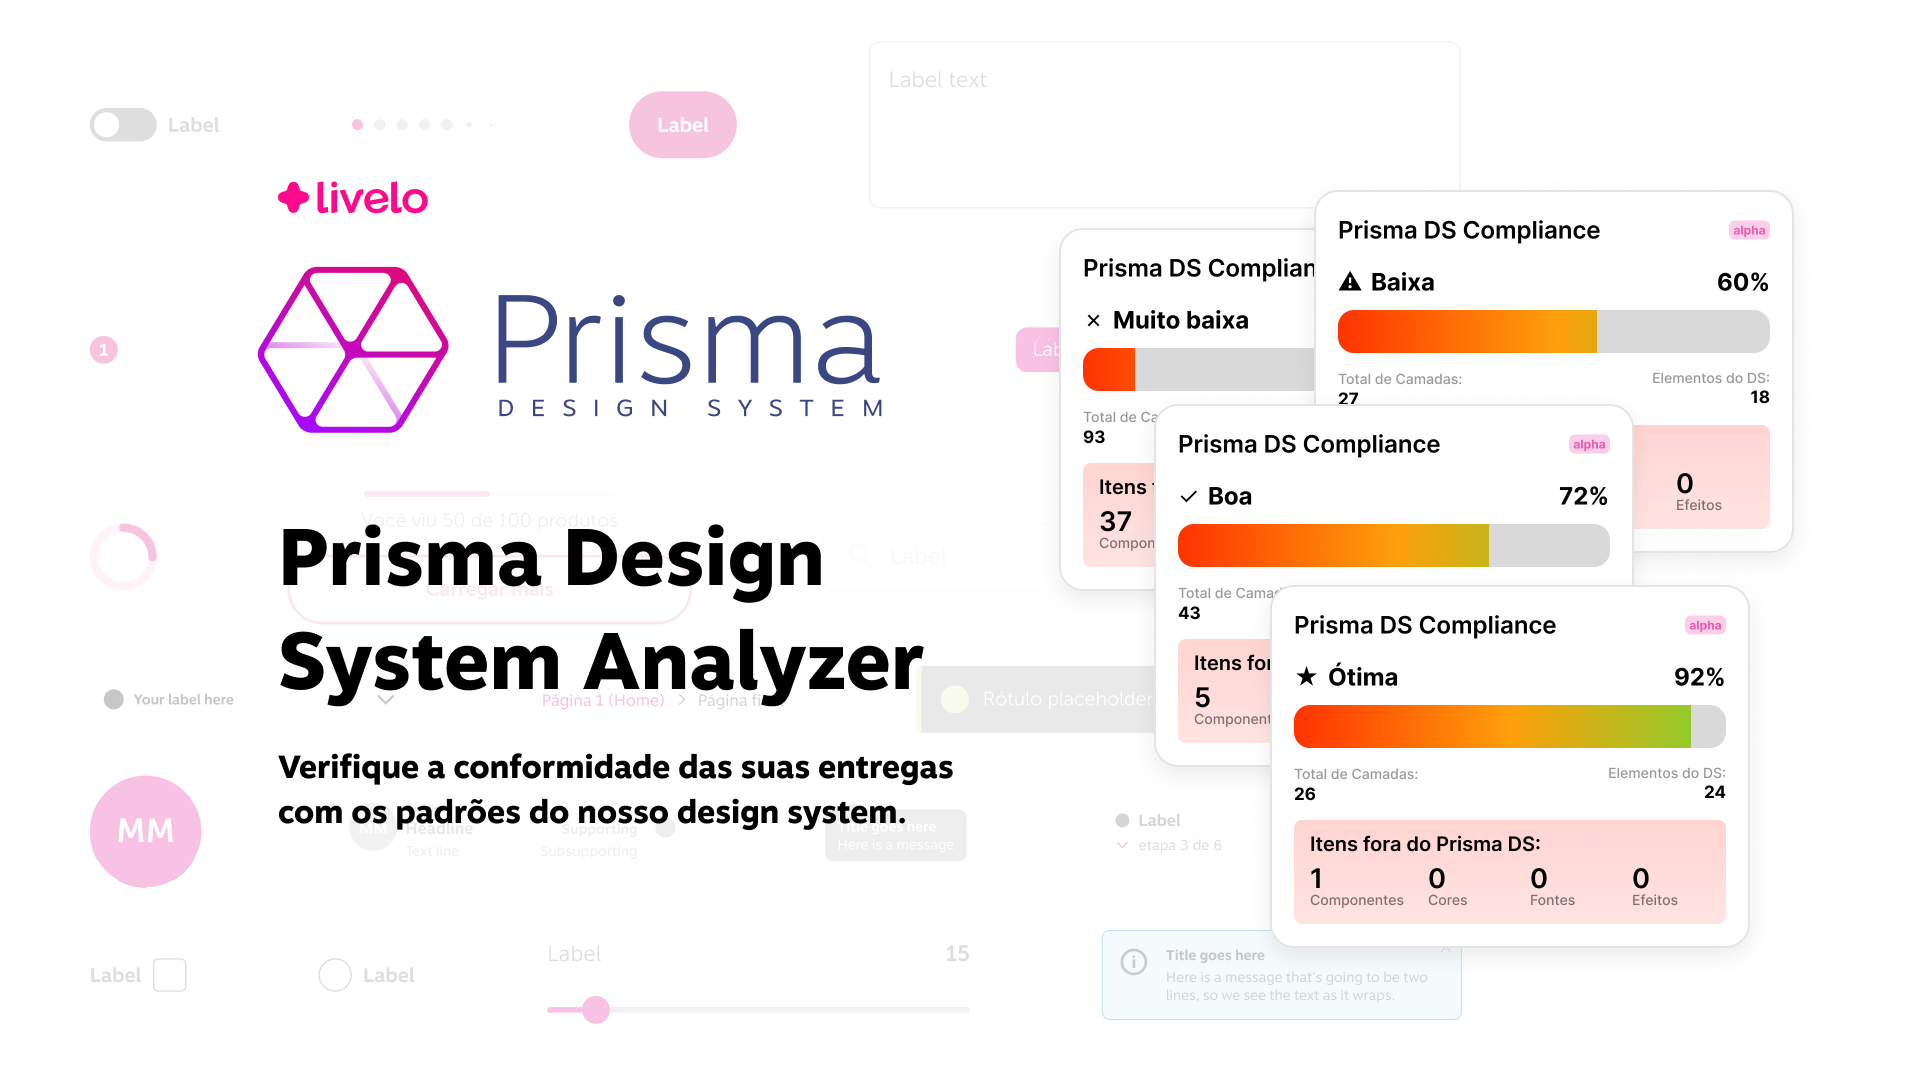
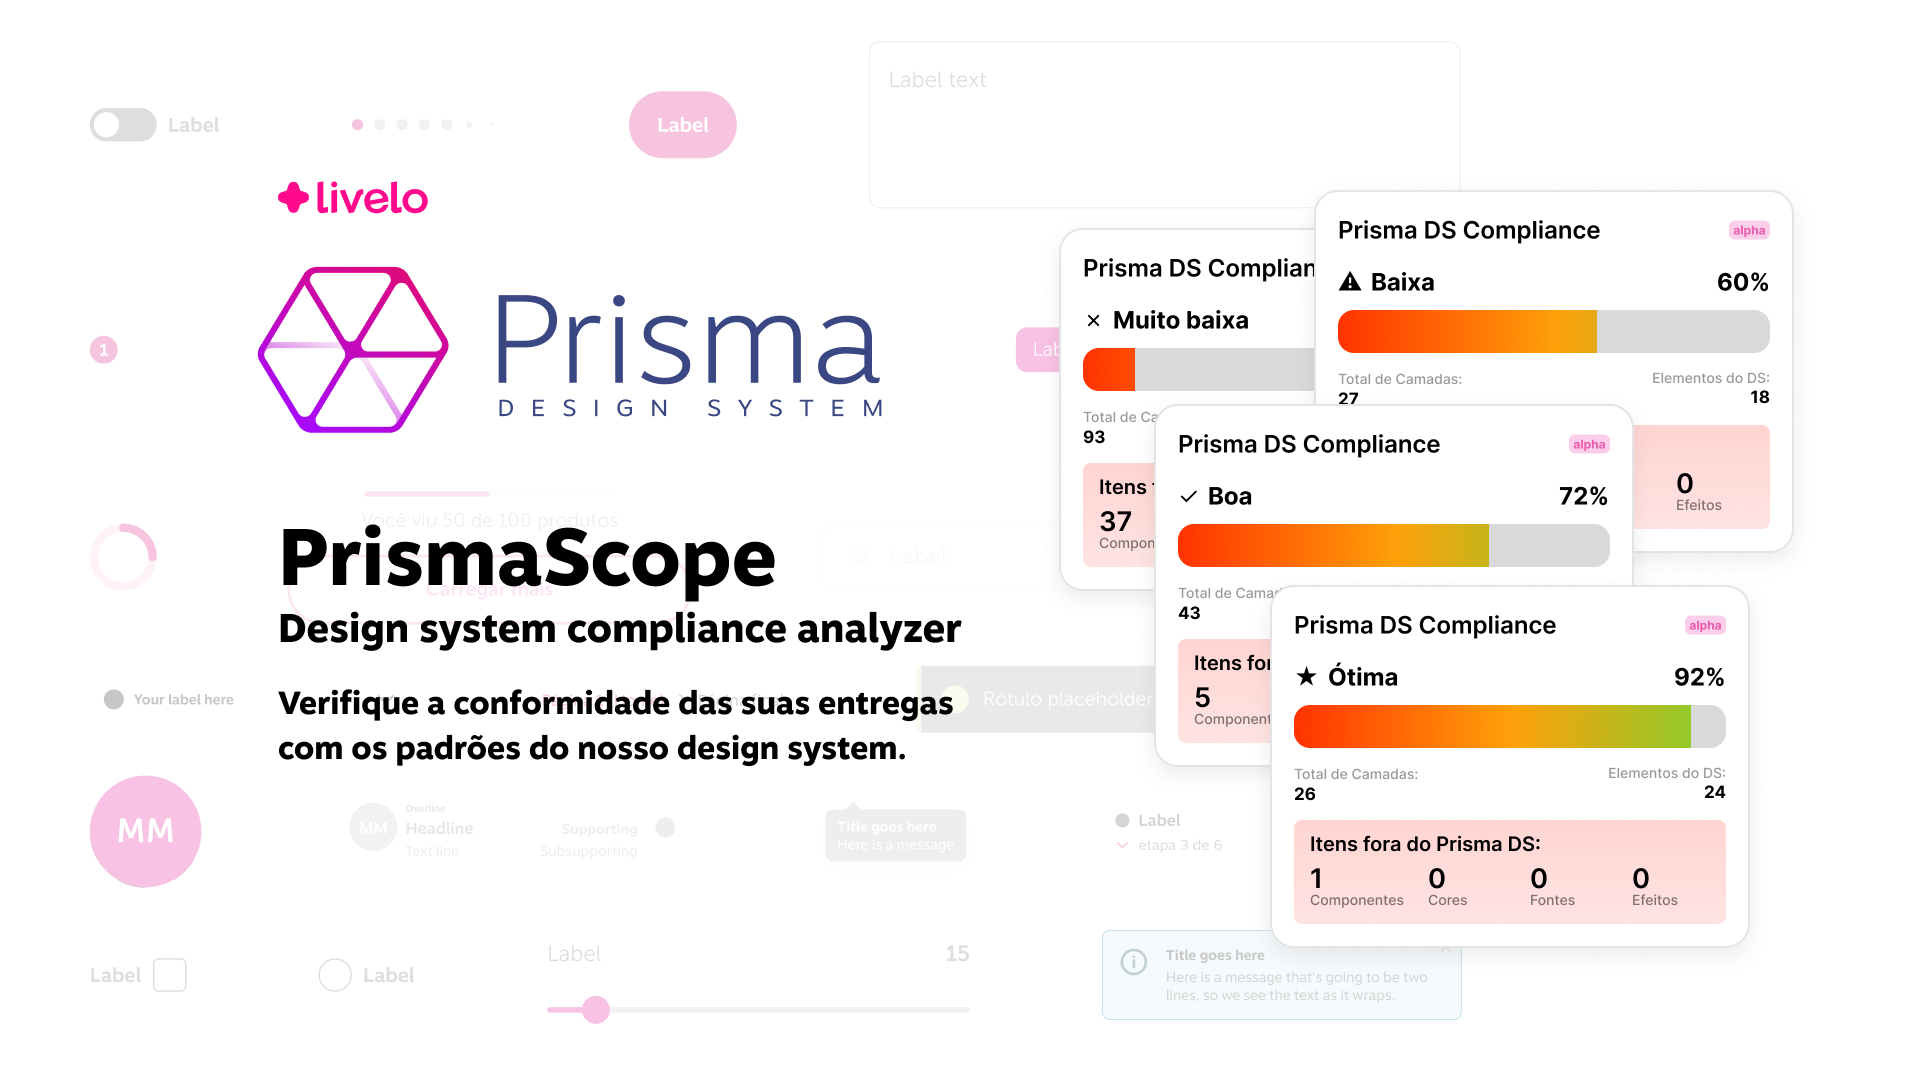
ajustes no nome dos plugins

Changed region(s): [[0.125, 0.4889, 0.5, 0.7639]]

diff --git a/FigmaDSanalyzer/analyzer-plugin/ui.html b/FigmaDSanalyzer/analyzer-plugin/ui.html
@@ -2,7 +2,7 @@
 <html>
 <head>
   <meta charset="utf-8">
-  <title>Design System Compliance Analyzer</title>
+  <title>PrismaScope - Design System Compliance Analyzer</title>
   <style>
     body {
       margin: 0;
@@ -163,7 +163,7 @@
           </defs>
         </svg>
       </span>
-      <h1 class="title">Prisma Design System Compliance</h1>
+      <h1 class="title">PrismaScope - Design System Compliance Analyzer</h1>
     </div>
 
     <div id="analyzePanel">

diff --git a/FigmaDSanalyzer/extractor-plugin/ui.html b/FigmaDSanalyzer/extractor-plugin/ui.html
@@ -2,7 +2,7 @@
 <html>
 <head>
   <meta charset="utf-8"> 
-  
+  <title>PrismaMap - Design System Extractor</title>
   <style>
     * {
       box-sizing: border-box;     
@@ -174,7 +174,7 @@
 </head>
 <body>
   <div class="header">
-    <h1> 🔍 Design System Extractor</h1>
+    <h1> 🔍 PrismaMap - Design System Extractor</h1>
     <p>Extraia as chaves de componentes e tokens da suas biblioteca de design system</p>
   </div>
 
